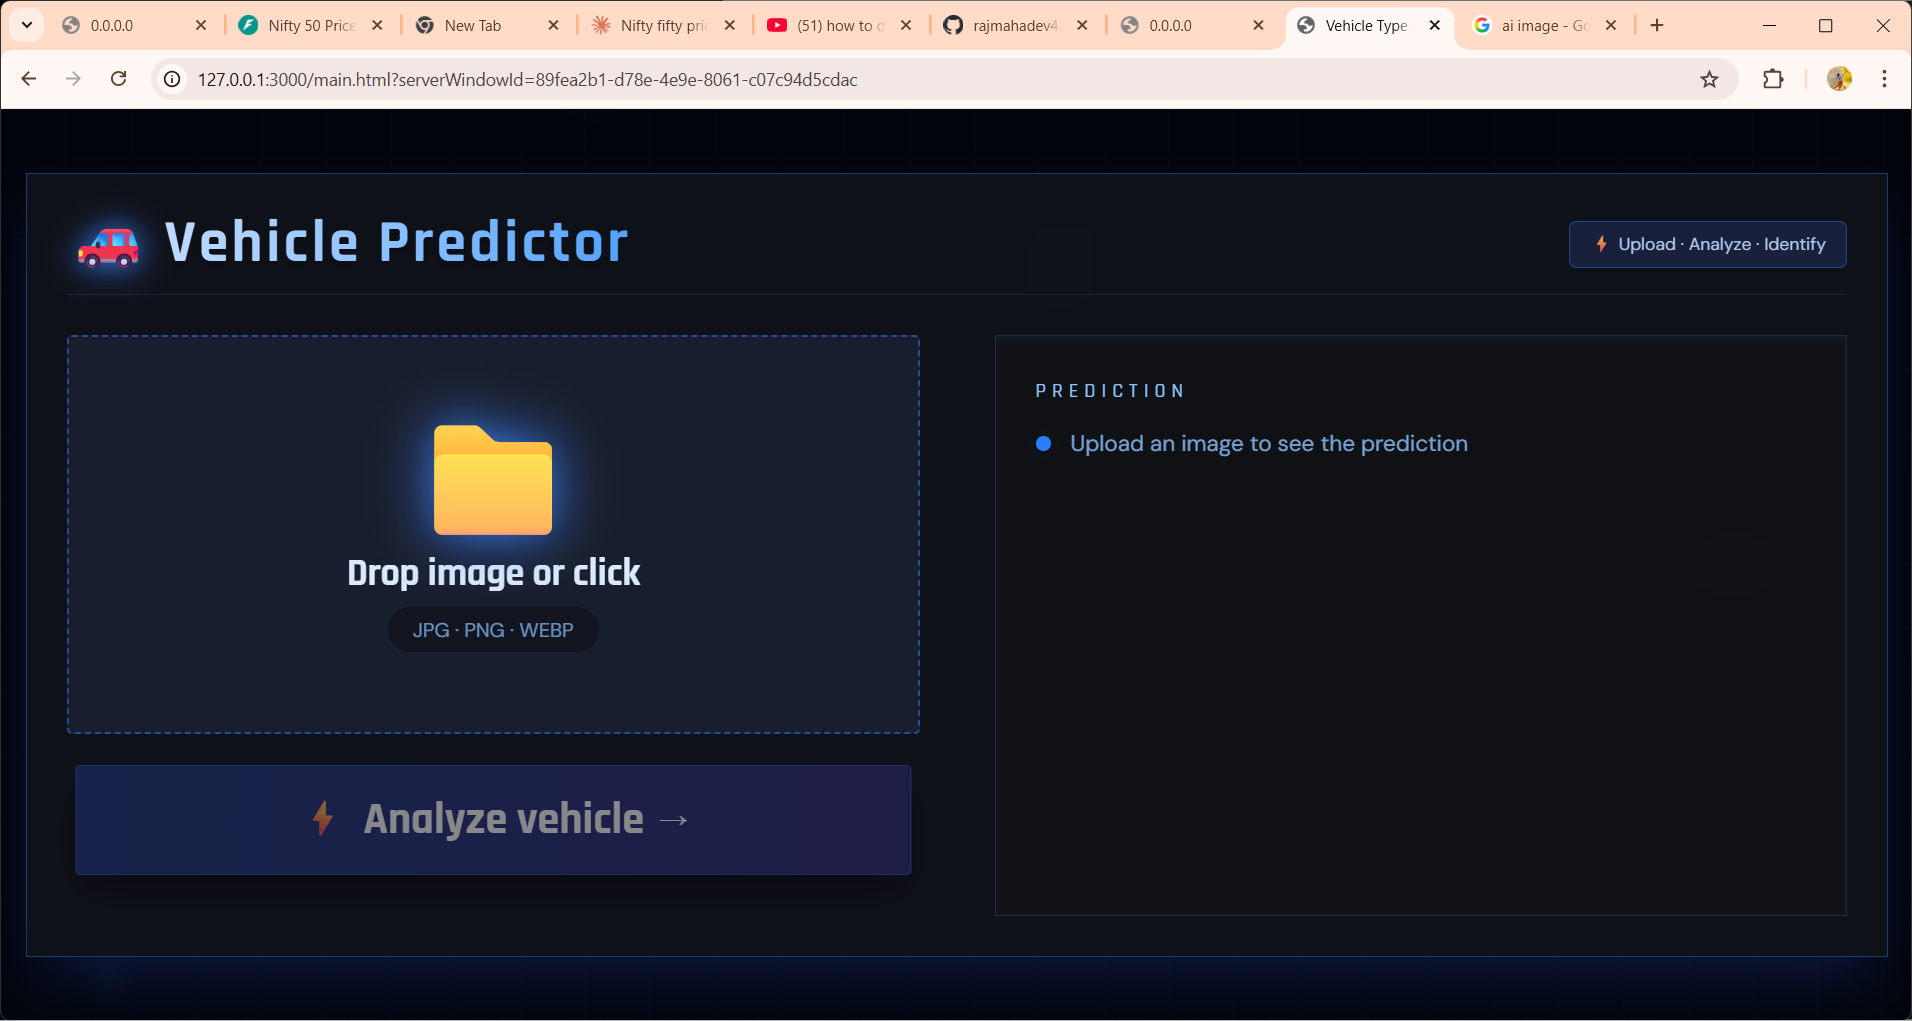
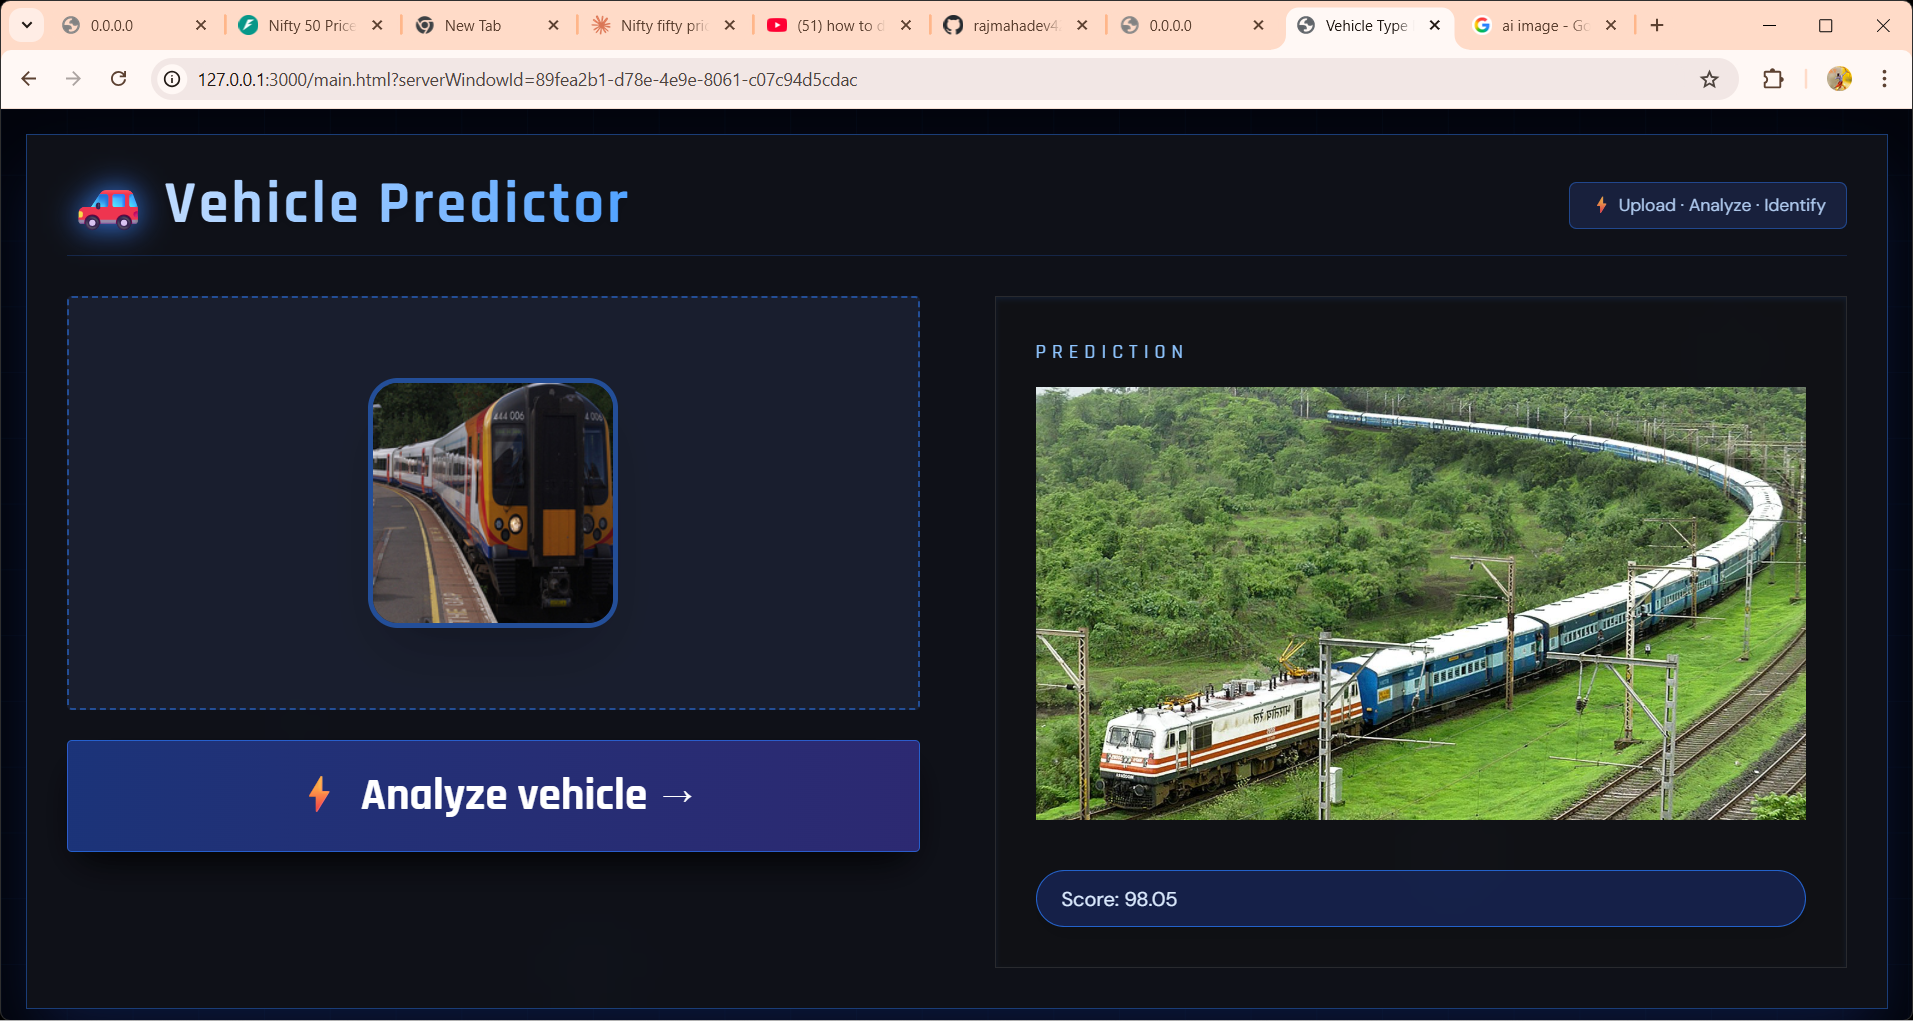
add real image

diff --git a/main.html b/main.html
@@ -227,7 +227,7 @@
 
       <!-- result content (hidden by default) -->
       <div id="resultContent" class="hidden flex-col sm:flex-row items-start sm:items-center justify-between gap-4">
-        <img src="#" id="result" class="h-30 mb-10">
+        <img src="#" id="result" class="w-full mb-10">
         <div id="resultBadge"
           class="bg-blue-950/80 border border-blue-500/70 rounded-full px-5 py-2.5 text-blue-100 text-sm sm:text-base shadow-lg whitespace-nowrap">
           AI Prediction</div>
